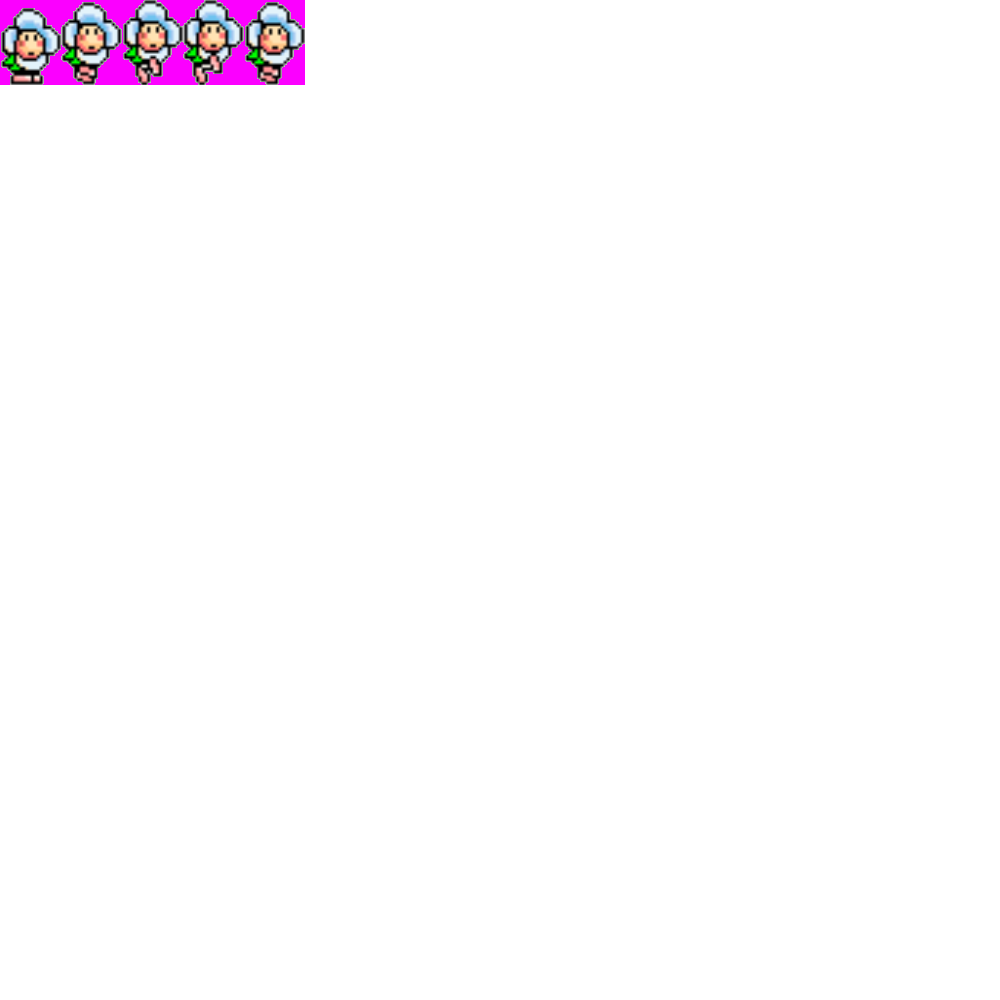
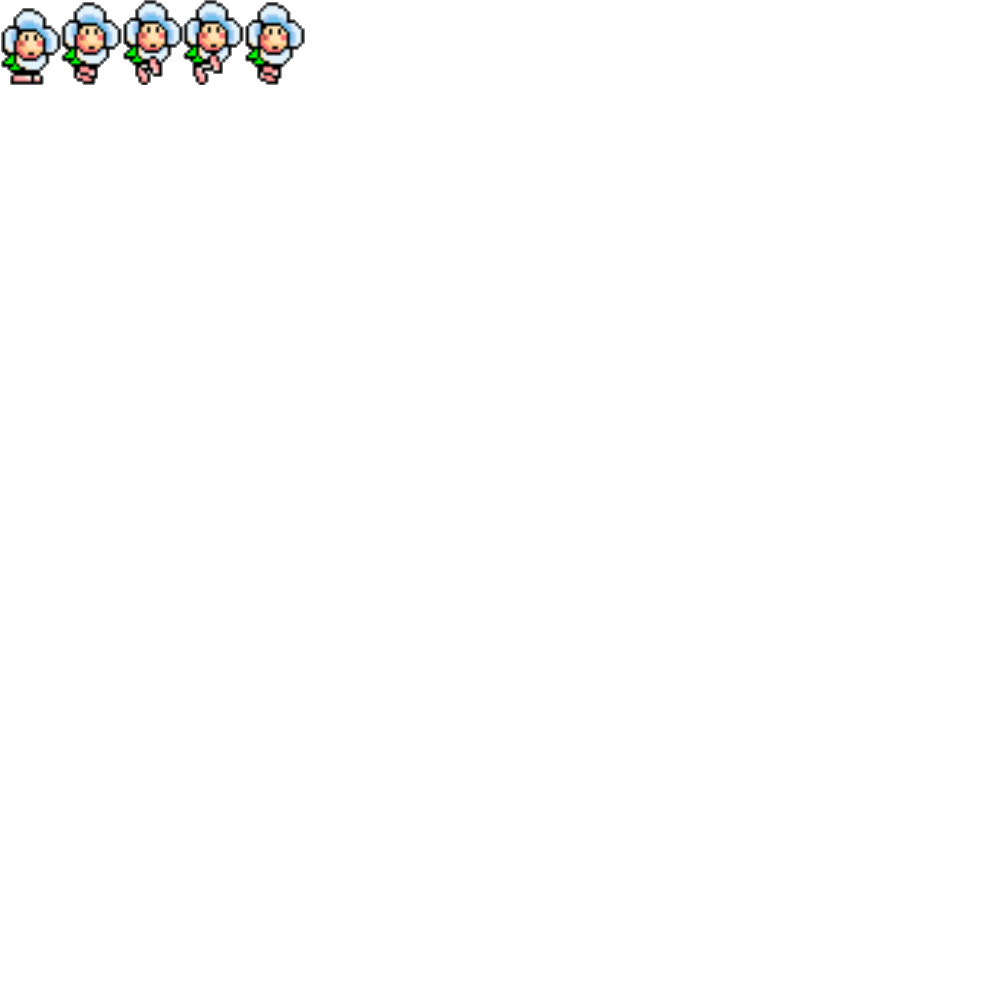
1스테이지 코인 배치 완료

Changed region(s): [[0.0, 0.0, 0.31, 0.093]]

diff --git a/enemy.py b/enemy.py
@@ -1,6 +1,8 @@
 from pico2d import *
 import random
 
+LEFT = 0
+RIGHT = 1
 class Enemy:
     def __init__(self,x,y):
         self.x = x
@@ -9,6 +11,7 @@ class Enemy:
         self.frame = 0
         self.movetime = 0
         self.waittime = random.randint(30,100)
+        self.face = LEFT
     # def draw(self):
     #     pass
 
@@ -26,8 +29,12 @@ class Flower(Enemy):
 
     def draw(self,left, bottom, right, top):
         #Flower.image.clip_draw(61*int(self.frame),1000-85,61,85,self.x,self.y)
-        self.image.clip_draw(61*int(self.frame), 1000-85, 61, 85, self.x - left + 61 // 2,
-                             self.y - bottom + 85 // 2, 61, 85)
+        if self.face == RIGHT:
+            self.image.clip_draw(61*int(self.frame), 1000-85, 61, 85, self.x - left + 61 // 2,
+                                 self.y - bottom + 85 // 2, 61, 85)
+        else:
+            self.image.clip_composite_draw(61*int(self.frame), 1000-85, 61, 85,0,'h', self.x - left + 61 // 2,
+                                 self.y - bottom + 85 // 2, 61, 85)
         pass
 
     def update(self):
@@ -39,8 +46,10 @@ class Flower(Enemy):
         if self.movetime == 0:
             if self.waittime == 0:
                 self.movetime = random.randint(60,120)
+                self.face = RIGHT
                 if random.randint(0,1)==0:
                     self.movetime*=-1
+                    self.face= LEFT
             else:
                 self.waittime-=1
         elif self.movetime<0:

diff --git a/stage.py b/stage.py
@@ -101,7 +101,41 @@ class StageState:
             JumpBlock(4994,1720,4994+62,1720+62,115)
         ]
         self.coins=[
-            Coin(800,700)
+            Coin(1170,700),
+            Coin(1270,700),
+            Coin(1370,700),
+            Coin(2000,1250),
+            Coin(2000,1050),
+            Coin(2100,1250),
+            Coin(2100,1050),
+            Coin(2550,1050),
+            Coin(2630,1150),
+            Coin(2750,1200),
+            Coin(2850,1150),
+
+            Coin(3350,1200),
+            Coin(3425,1300),
+            Coin(3550,1410),
+            Coin(3675,1500),
+
+            Coin(4445,1500),
+            Coin(4445,1600),
+            Coin(4445,1700),
+            Coin(4515,1800),
+            Coin(4580,1800),
+
+            Coin(5012, 1900),
+            Coin(5012, 2030),
+            Coin(5012,2160),
+            Coin(5012, 2290),
+            Coin(5012, 2420),
+            Coin(5012, 2550),
+            Coin(5012, 2680),
+            Coin(5012, 2810),
+            Coin(5012, 2900),
+            Coin(5050,3020),
+            Coin(5100,3070),
+            Coin(5150,3050)
         ]
         self.finishLine = myRect(5747,2870,6139,3262)
 

diff --git a/coin.py b/coin.py
@@ -36,7 +36,7 @@ class Coin(Item):
         )
 
     def update(self, l,b,r,t):
-        Coin.frame = (Coin.frame+0.1) % 4
+        Coin.frame = (Coin.frame+0.01) % 4
         temp = stage.myRect(l,b,r,t)
         if self.myIntersectRect(temp):
             return 100

diff --git a/play_state.py b/play_state.py
@@ -107,3 +107,5 @@ def handle_yoshi(event):
 
     if event.key == SDLK_F1:
         yoshi.y += 500
+    if event.key == SDLK_F2 and event.type == SDL_KEYDOWN:
+        yoshi.x += 500
